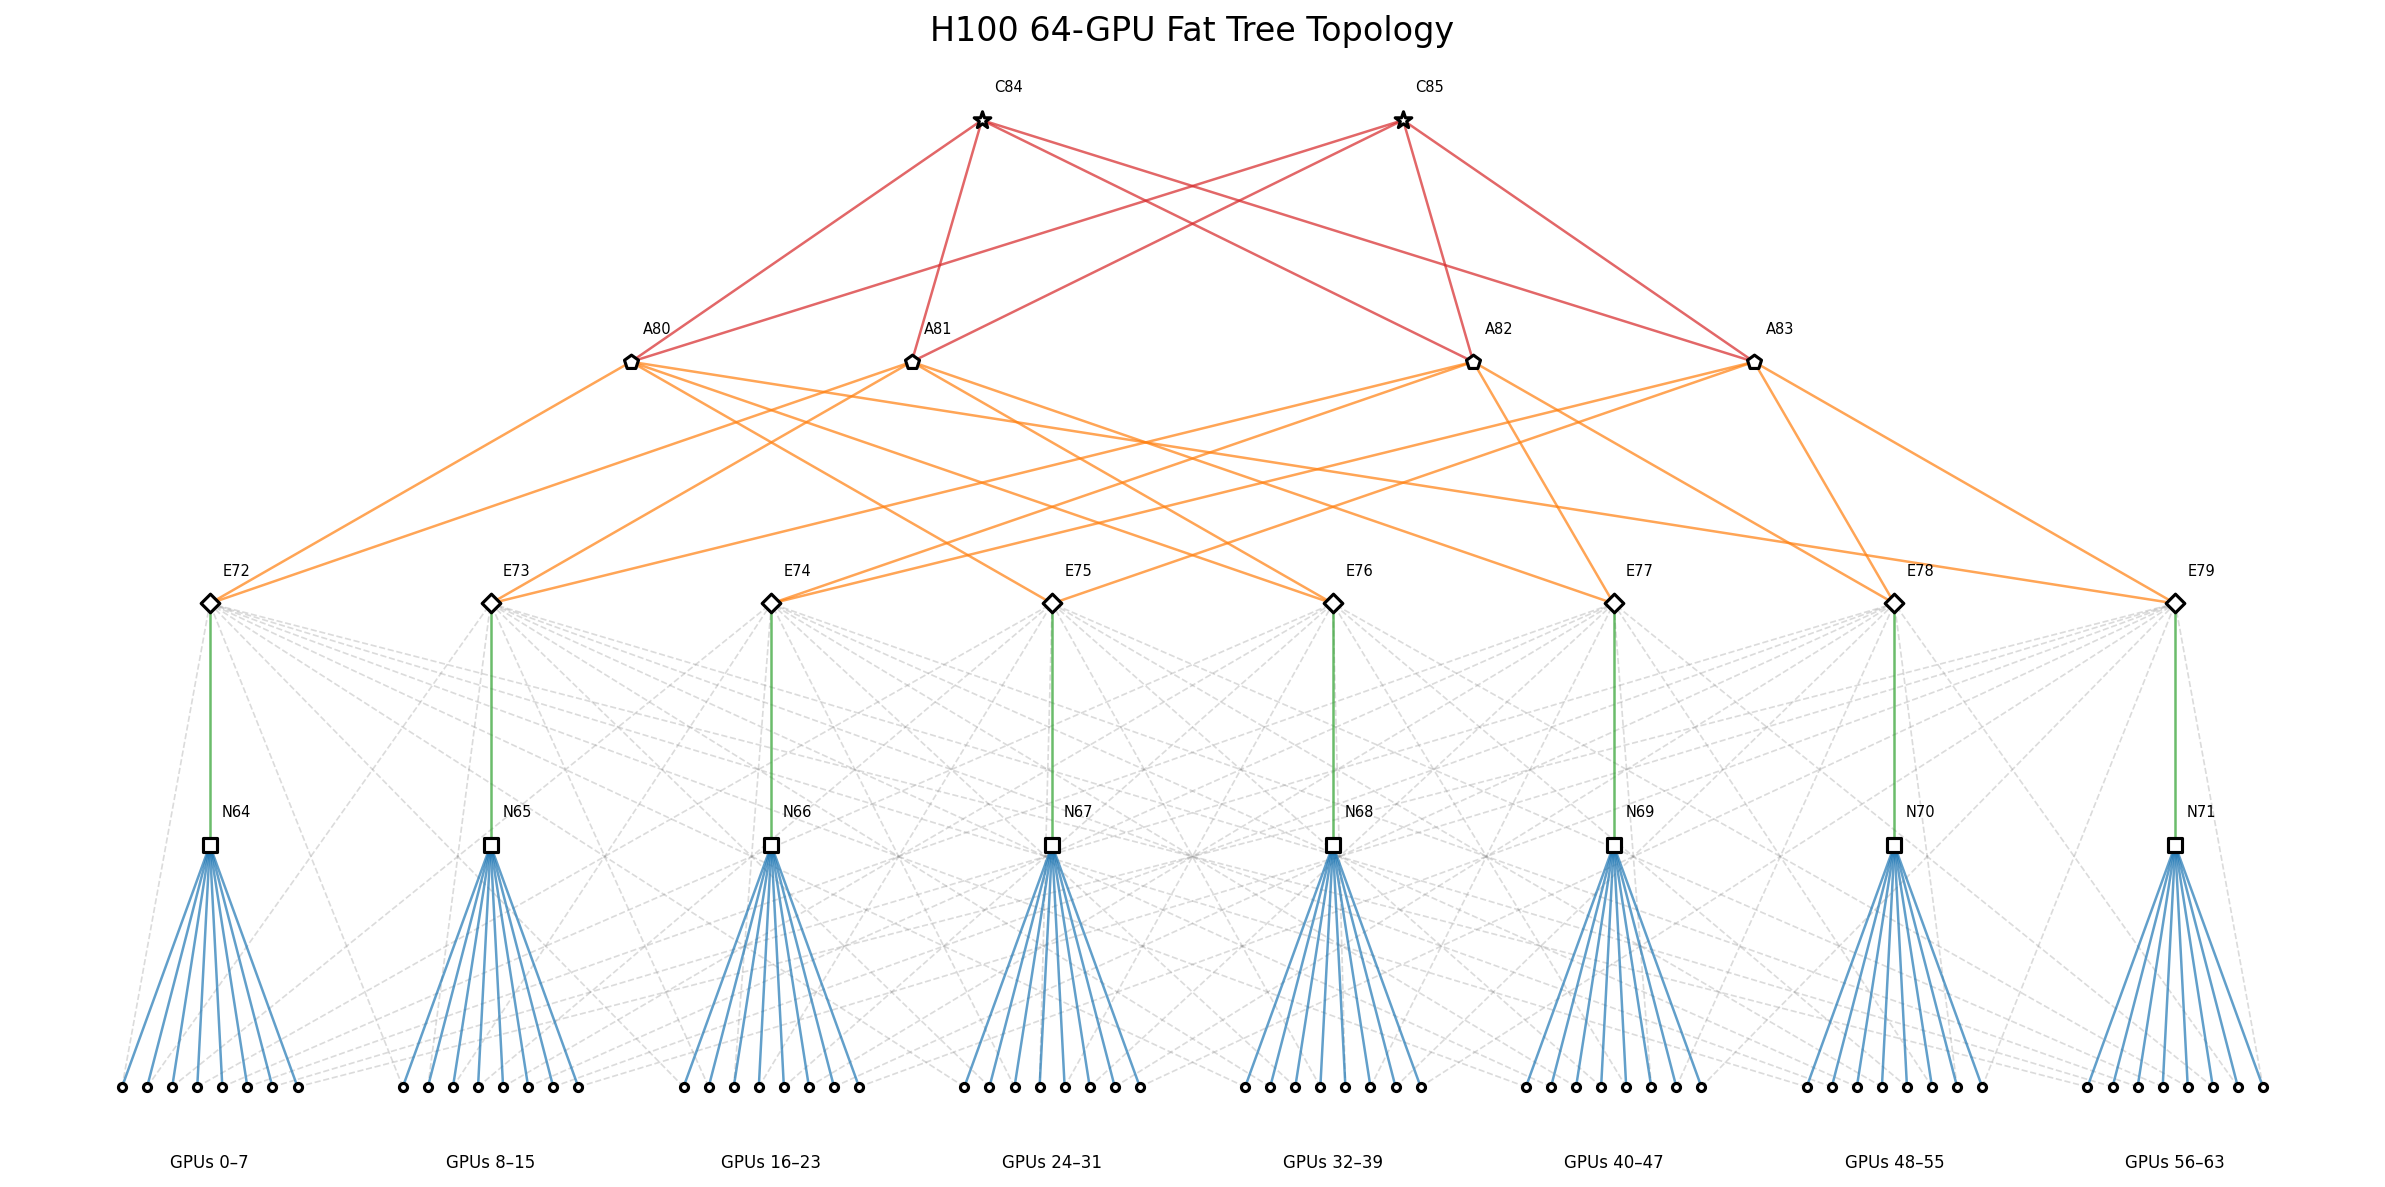
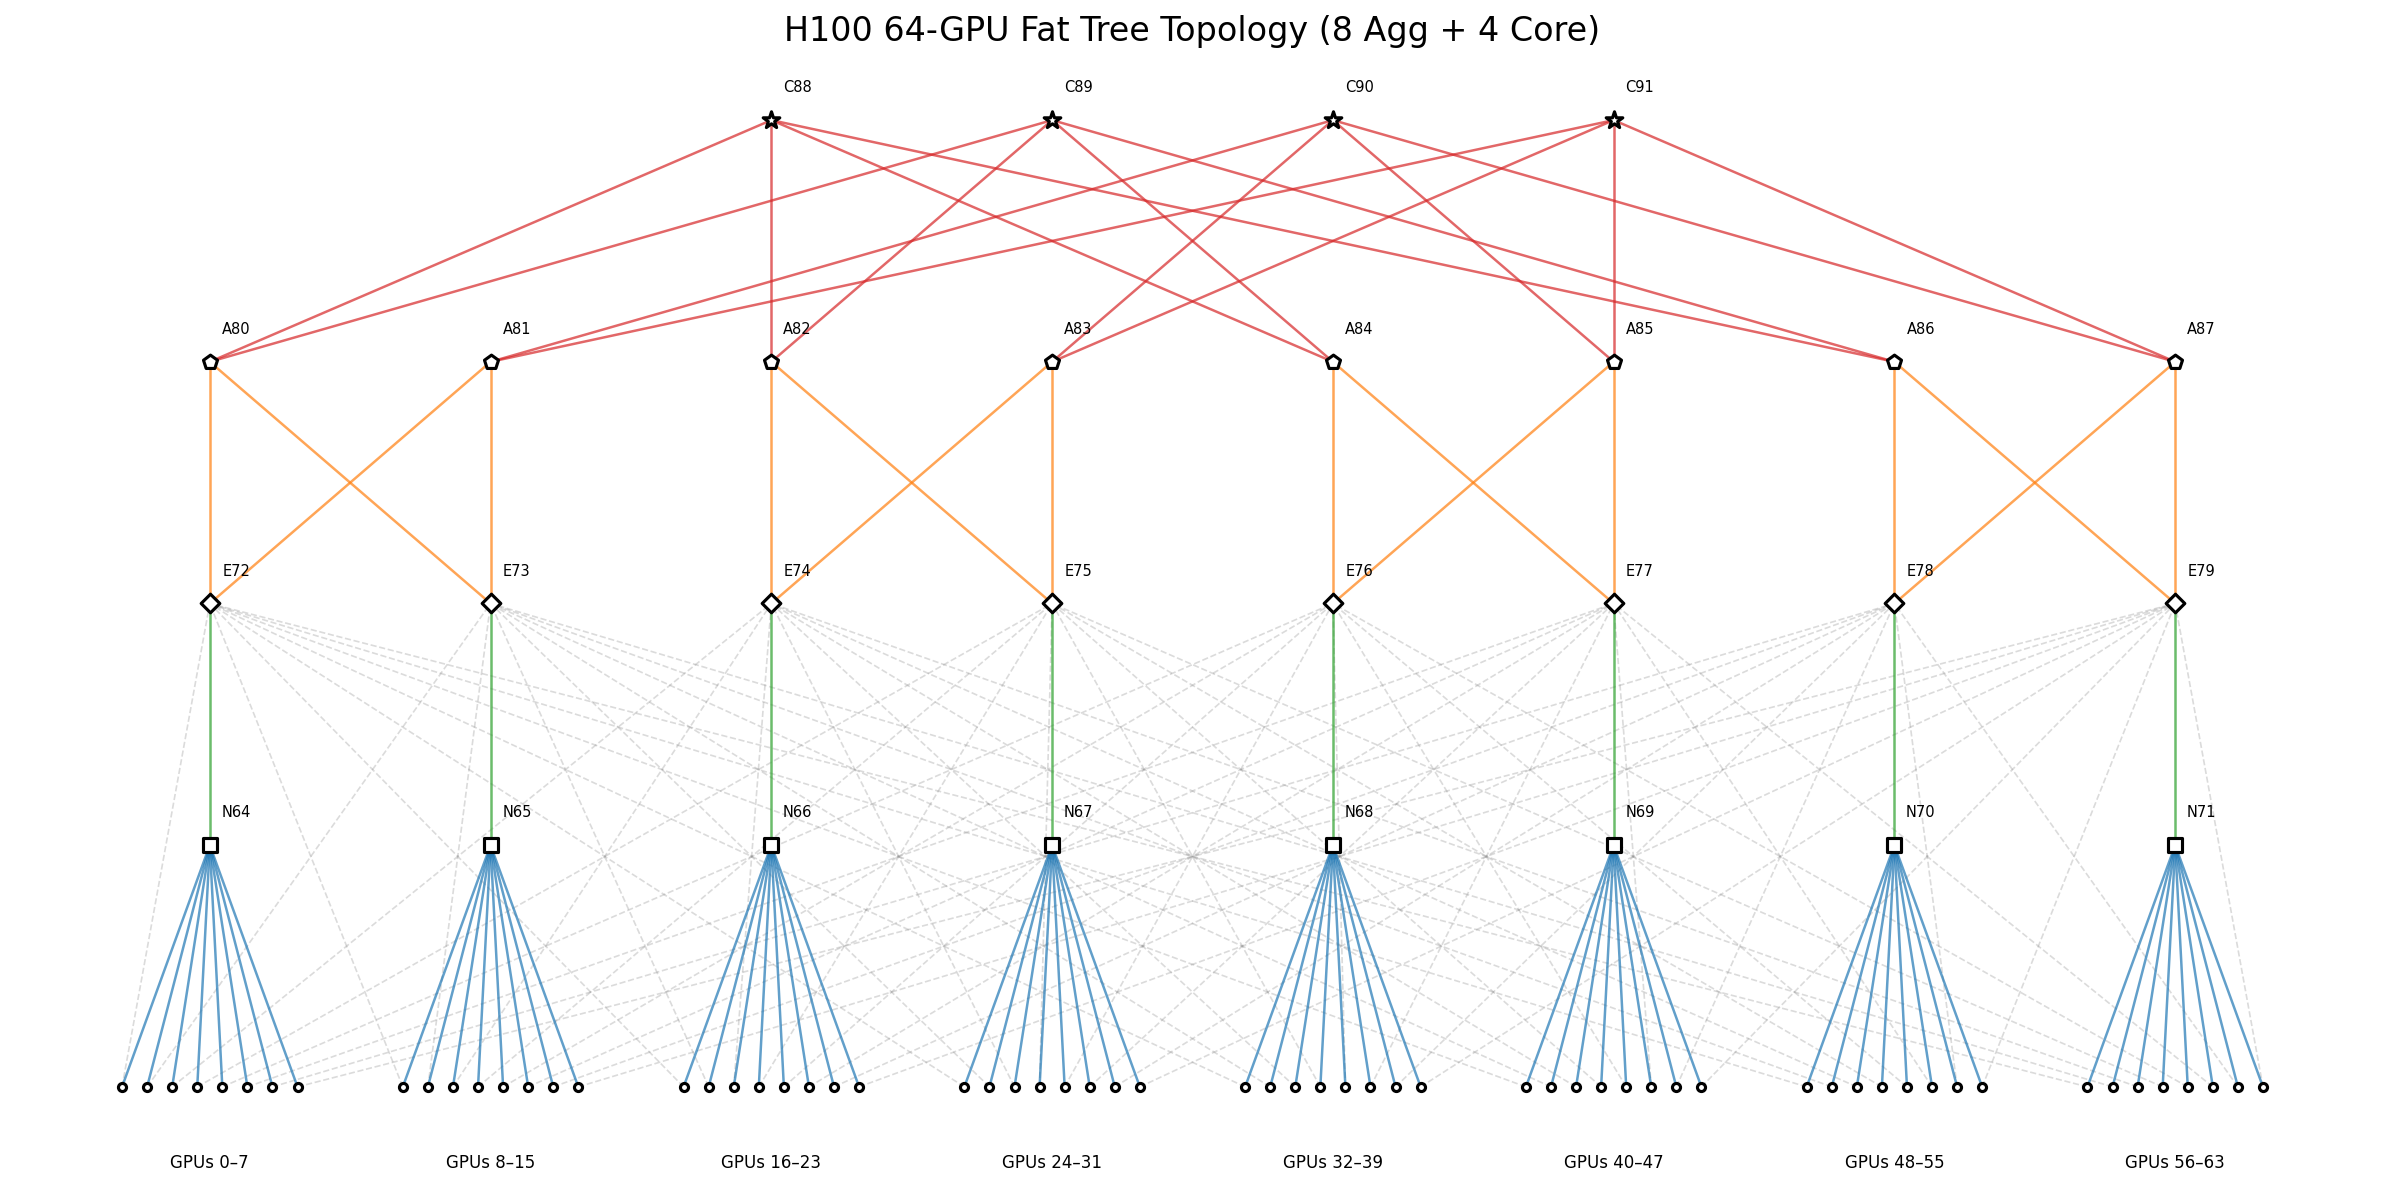
fat tree 8 agg, 4 core diagram generate

diff --git a/topDiaGen.py b/topDiaGen.py
@@ -1,4 +1,5 @@
 # Generate a clean, minimalist topology diagram for H100 64-GPU fat tree cluster
+# Updated for 8 aggregation switches + 4 core switches topology
 import matplotlib.pyplot as plt
 
 # ---------- Layout (layered) ----------
@@ -26,14 +27,15 @@ for i in range(8):
     node = 72 + i
     pos[node] = (anchors[i], 1.8)
 
-# Aggregation: 80-83 (spread across middle)
-agg_x_positions = [anchors[1] + 0.8, anchors[2] + 0.8, anchors[4] + 0.8, anchors[5] + 0.8]
-for i in range(4):
+# Aggregation: 80-87 (8 switches spread across)
+agg_x_positions = [anchors[i] for i in range(8)]  # Align with edge switches
+for i in range(8):
     pos[80 + i] = (agg_x_positions[i], 2.7)
 
-# TWO Cores: 84-85 (top center)
-pos[84] = (anchors[3] - 0.4, 3.6)
-pos[85] = (anchors[4] + 0.4, 3.6)
+# FOUR Cores: 88-91 (top center, spread horizontally)
+core_x_positions = [anchors[2], anchors[3], anchors[4], anchors[5]]
+for i in range(4):
+    pos[88 + i] = (core_x_positions[i], 3.6)
 
 # ---------- Edge sets ----------
 edges_gpu_nvsw = []     # GPU -> NVSwitch
@@ -51,27 +53,39 @@ for g in range(64):
 for i in range(8):
     edges_nvsw_edge.append((64 + i, 72 + i))
 
-# Edge -> Agg (based on your fat tree file pattern)
-# From the file: edges 72-79 connect to aggs 80-83 in specific pattern
+# Edge -> Agg (based on fat_tree_server_64_GPUs file pattern)
+# From the file: each edge connects to 2 aggregation switches
 edge_to_agg_mapping = {
     72: [80, 81],  # Edge 0 -> Agg 0,1
-    73: [81, 82],  # Edge 1 -> Agg 1,2  
+    73: [80, 81],  # Edge 1 -> Agg 0,1  
     74: [82, 83],  # Edge 2 -> Agg 2,3
-    75: [83, 80],  # Edge 3 -> Agg 3,0
-    76: [80, 81],  # Edge 4 -> Agg 0,1
-    77: [81, 82],  # Edge 5 -> Agg 1,2
-    78: [82, 83],  # Edge 6 -> Agg 2,3
-    79: [83, 80],  # Edge 7 -> Agg 3,0
+    75: [82, 83],  # Edge 3 -> Agg 2,3
+    76: [84, 85],  # Edge 4 -> Agg 4,5
+    77: [84, 85],  # Edge 5 -> Agg 4,5
+    78: [86, 87],  # Edge 6 -> Agg 6,7
+    79: [86, 87],  # Edge 7 -> Agg 6,7
 }
 
 for edge, aggs in edge_to_agg_mapping.items():
     for agg in aggs:
         edges_edge_agg.append((edge, agg))
 
-# Agg -> both Cores (84,85)
-for a in range(80, 84):
-    edges_agg_core.append((a, 84))
-    edges_agg_core.append((a, 85))
+# Agg -> Cores (88-91) - based on the pattern in the file
+# Each aggregation connects to specific core switches
+agg_to_core_mapping = {
+    80: [88, 89],  # Agg 0 -> Core 0,1
+    81: [90, 91],  # Agg 1 -> Core 2,3
+    82: [88, 89],  # Agg 2 -> Core 0,1  
+    83: [90, 91],  # Agg 3 -> Core 2,3
+    84: [88, 89],  # Agg 4 -> Core 0,1
+    85: [90, 91],  # Agg 5 -> Core 2,3
+    86: [88, 89],  # Agg 6 -> Core 0,1
+    87: [90, 91],  # Agg 7 -> Core 2,3
+}
+
+for agg, cores in agg_to_core_mapping.items():
+    for core in cores:
+        edges_agg_core.append((agg, core))
 
 # GPU -> Edge (NIC): connect each GPU to corresponding edge (round-robin pattern)
 for g in range(64):
@@ -111,8 +125,8 @@ draw_edges(edges_agg_core, style='-',  width=1.2, alpha=0.7, colors='#d62728')  
 draw_nodes(range(64),        marker='o', size=15, label_prefix='')     # GPUs (smaller for 64)
 draw_nodes(range(64,72),     marker='s', size=40, label_prefix='N')    # NVSwitch
 draw_nodes(range(72,80),     marker='D', size=40, label_prefix='E')    # Edge
-draw_nodes(range(80,84),     marker='p', size=50, label_prefix='A')    # Agg
-draw_nodes([84,85],          marker='*', size=70, label_prefix='C')    # Cores
+draw_nodes(range(80,88),     marker='p', size=50, label_prefix='A')    # Agg (8 switches)
+draw_nodes([88,89,90,91],    marker='*', size=70, label_prefix='C')    # Cores (4 switches)
 
 # Simple group labels for 8 groups
 group_labels = ["GPUs 0–7", "GPUs 8–15", "GPUs 16–23", "GPUs 24–31", 
@@ -121,7 +135,7 @@ for i, label in enumerate(group_labels):
     x = anchors[i]
     plt.text(x, -0.25, label, ha='center', va='top', fontsize=8)
 
-plt.title("H100 64-GPU Fat Tree Topology", fontsize=16, pad=15)
+plt.title("H100 64-GPU Fat Tree Topology (8 Agg + 4 Core)", fontsize=16, pad=15)
 plt.axis('off')
 plt.tight_layout()
 
